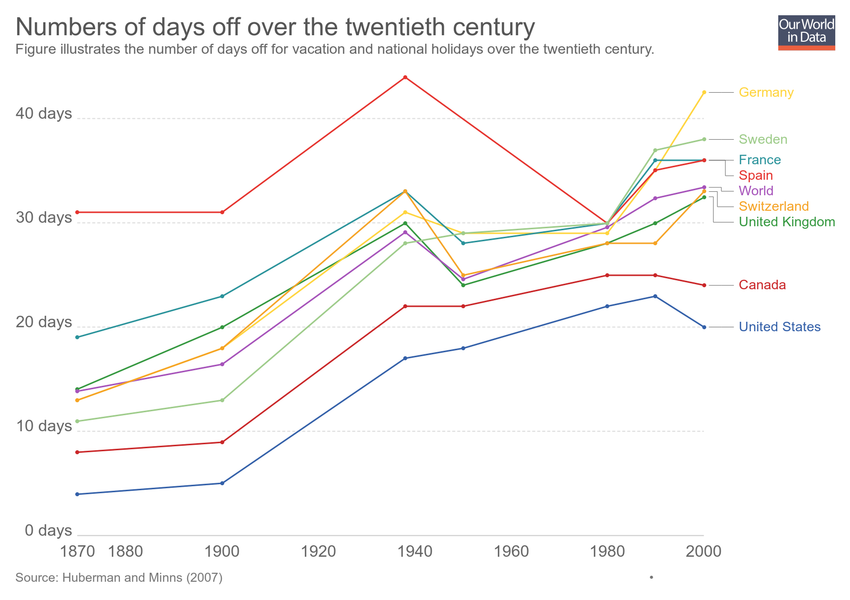
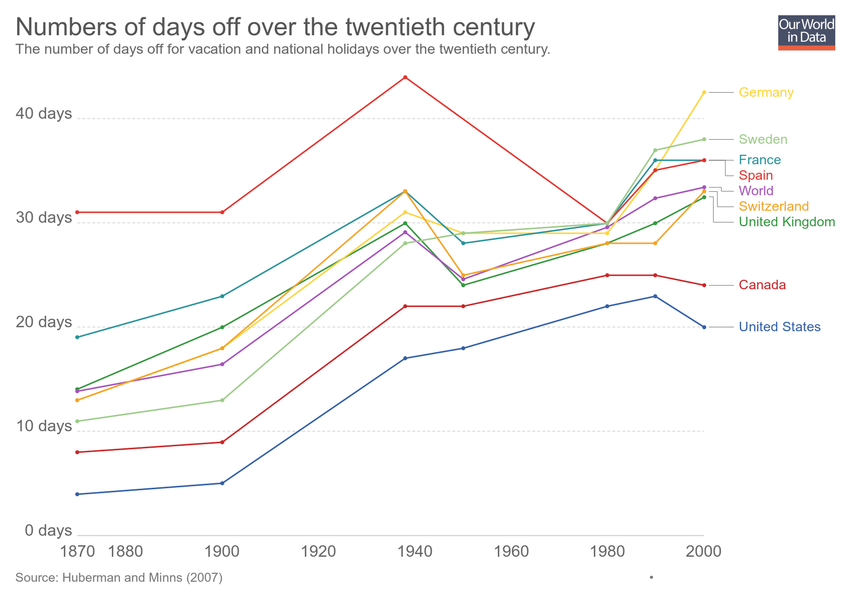
Updating chart numbers-of-days-off-over-the-twentieth-century

Changed region(s): [[0.0306, 0.06, 0.7647, 0.09]]

diff --git a/grapher/numbers-of-days-off-over-the-twentieth-century.html b/grapher/numbers-of-days-off-over-the-twentieth-century.html
@@ -1,4 +1,4 @@
-<!doctype html><html><head><meta name="viewport" content="width=device-width, initial-scale=1" /><title>Numbers of days off over the twentieth century - Our World in Data</title><meta name="description" content="Figure illustrates the number of days off for vacation and national holidays over the twentieth century. " /><link rel="canonical" href="https://ourworldindata.org/grapher/numbers-of-days-off-over-the-twentieth-century" /><meta property="fb:app_id" content="1149943818390250" /><meta property="og:url" content="https://ourworldindata.org/grapher/numbers-of-days-off-over-the-twentieth-century" /><meta property="og:title" content="Numbers of days off over the twentieth century" /><meta property="og:description" content="Figure illustrates the number of days off for vacation and national holidays over the twentieth century. " /><meta property="og:image" content="https://ourworldindata.org/grapher/exports/numbers-of-days-off-over-the-twentieth-century.png?v=2" /><meta property="og:image:width" content="850" /><meta property="og:image:height" content="600" /><meta property="og:site_name" content="Our World in Data" /><meta name="twitter:card" content="summary_large_image" /><meta name="twitter:site" content="@OurWorldInData" /><meta name="twitter:creator" content="@OurWorldInData" /><meta name="twitter:title" content="Numbers of days off over the twentieth century" /><meta name="twitter:description" content="Figure illustrates the number of days off for vacation and national holidays over the twentieth century. " /><meta name="twitter:image" content="https://ourworldindata.org/grapher/exports/numbers-of-days-off-over-the-twentieth-century.png?v=2" /><style>
+<!doctype html><html><head><meta name="viewport" content="width=device-width, initial-scale=1" /><title>Numbers of days off over the twentieth century - Our World in Data</title><meta name="description" content="The number of days off for vacation and national holidays over the twentieth century. " /><link rel="canonical" href="https://ourworldindata.org/grapher/numbers-of-days-off-over-the-twentieth-century" /><meta property="fb:app_id" content="1149943818390250" /><meta property="og:url" content="https://ourworldindata.org/grapher/numbers-of-days-off-over-the-twentieth-century" /><meta property="og:title" content="Numbers of days off over the twentieth century" /><meta property="og:description" content="The number of days off for vacation and national holidays over the twentieth century. " /><meta property="og:image" content="https://ourworldindata.org/grapher/exports/numbers-of-days-off-over-the-twentieth-century.png?v=3" /><meta property="og:image:width" content="850" /><meta property="og:image:height" content="600" /><meta property="og:site_name" content="Our World in Data" /><meta name="twitter:card" content="summary_large_image" /><meta name="twitter:site" content="@OurWorldInData" /><meta name="twitter:creator" content="@OurWorldInData" /><meta name="twitter:title" content="Numbers of days off over the twentieth century" /><meta name="twitter:description" content="The number of days off for vacation and national holidays over the twentieth century. " /><meta name="twitter:image" content="https://ourworldindata.org/grapher/exports/numbers-of-days-off-over-the-twentieth-century.png?v=3" /><style>
         html, body {
             height: 100%;
             margin: 0;
@@ -20,8 +20,8 @@
         }
     </style><noscript><style>
                     figure { display: none !important; }
-                </style></noscript><link rel="stylesheet" href="https://ourworldindata.org/grapher/assets/commons.bundle.e61261d2881056c44b1d.css" /><link rel="preload" href="/grapher/data/variables/97556.json?v=2" as="fetch" crossorigin /></head><body class="singleChart"><figure data-grapher-src="/grapher/numbers-of-days-off-over-the-twentieth-century"></figure><noscript id="fallback"><img src="/grapher/exports/numbers-of-days-off-over-the-twentieth-century.svg" /><p>Interactive visualization requires JavaScript</p></noscript><script src="https://cdn.polyfill.io/v2/polyfill.min.js?features=es6,fetch"></script><script src="https://ourworldindata.org/grapher/assets/commons.bundle.e61261d2881056c44b1d.js"></script><script src="https://ourworldindata.org/grapher/assets/charts.bundle.e61261d2881056c44b1d.js"></script><script>
-        var jsonConfig = {"id":2800,"map":{"projection":"World","targetYear":2000,"variableId":97556,"colorSchemeLabels":[],"colorSchemeValues":[],"customNumericColors":[],"customCategoryColors":{},"customCategoryLabels":{},"customHiddenCategories":{}},"tab":"chart","slug":"numbers-of-days-off-over-the-twentieth-century","type":"LineChart","title":"Numbers of days off over the twentieth century","xAxis":{"scaleType":"linear"},"yAxis":{"min":0,"scaleType":"linear"},"version":2,"subtitle":"Figure illustrates the number of days off for vacation and national holidays over the twentieth century. ","hasMapTab":true,"stackMode":"absolute","dimensions":[{"display":{"unit":"days off","shortUnit":"days"},"property":"y","variableId":97556}],"hasChartTab":true,"isPublished":true,"selectedData":[{"index":0,"entityId":1},{"index":0,"entityId":44},{"index":0,"entityId":355},{"index":0,"entityId":13},{"index":0,"entityId":6},{"index":0,"entityId":3},{"index":0,"entityId":9},{"index":0,"entityId":10},{"index":0,"entityId":7}],"addCountryMode":"add-country"};
+                </style></noscript><link rel="stylesheet" href="https://ourworldindata.org/grapher/assets/commons.bundle.e61261d2881056c44b1d.css" /><link rel="preload" href="/grapher/data/variables/97556.json?v=3" as="fetch" crossorigin /></head><body class="singleChart"><figure data-grapher-src="/grapher/numbers-of-days-off-over-the-twentieth-century"></figure><noscript id="fallback"><img src="/grapher/exports/numbers-of-days-off-over-the-twentieth-century.svg" /><p>Interactive visualization requires JavaScript</p></noscript><script src="https://cdn.polyfill.io/v2/polyfill.min.js?features=es6,fetch"></script><script src="https://ourworldindata.org/grapher/assets/commons.bundle.e61261d2881056c44b1d.js"></script><script src="https://ourworldindata.org/grapher/assets/charts.bundle.e61261d2881056c44b1d.js"></script><script>
+        var jsonConfig = {"id":2800,"map":{"projection":"World","targetYear":2000,"variableId":97556,"colorSchemeLabels":[],"colorSchemeValues":[],"customNumericColors":[],"customCategoryColors":{},"customCategoryLabels":{},"customHiddenCategories":{}},"tab":"chart","slug":"numbers-of-days-off-over-the-twentieth-century","type":"LineChart","title":"Numbers of days off over the twentieth century","xAxis":{"scaleType":"linear"},"yAxis":{"min":0,"scaleType":"linear"},"version":3,"subtitle":"The number of days off for vacation and national holidays over the twentieth century. ","hasMapTab":true,"stackMode":"absolute","dimensions":[{"display":{"unit":"days off","shortUnit":"days"},"property":"y","variableId":97556}],"hasChartTab":true,"isPublished":true,"selectedData":[{"index":0,"entityId":1},{"index":0,"entityId":44},{"index":0,"entityId":355},{"index":0,"entityId":13},{"index":0,"entityId":6},{"index":0,"entityId":3},{"index":0,"entityId":9},{"index":0,"entityId":10},{"index":0,"entityId":7}],"addCountryMode":"add-country"};
         var figure = document.getElementsByTagName("figure")[0];
         try {
             window.App = {};
